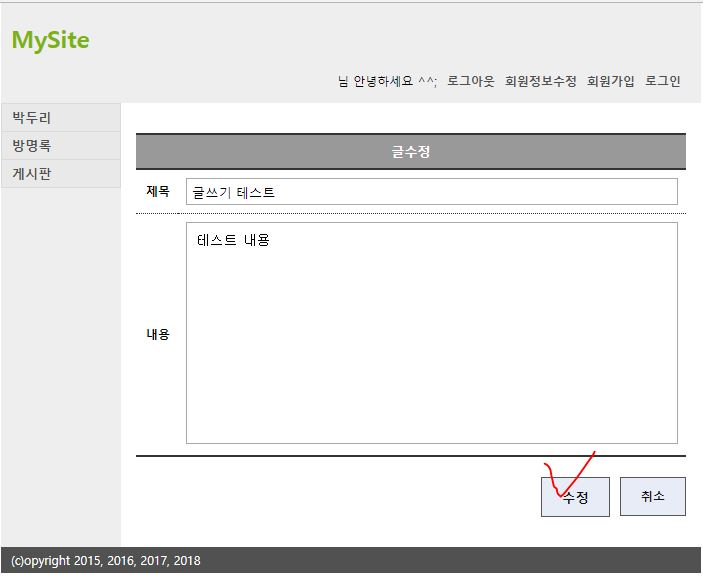
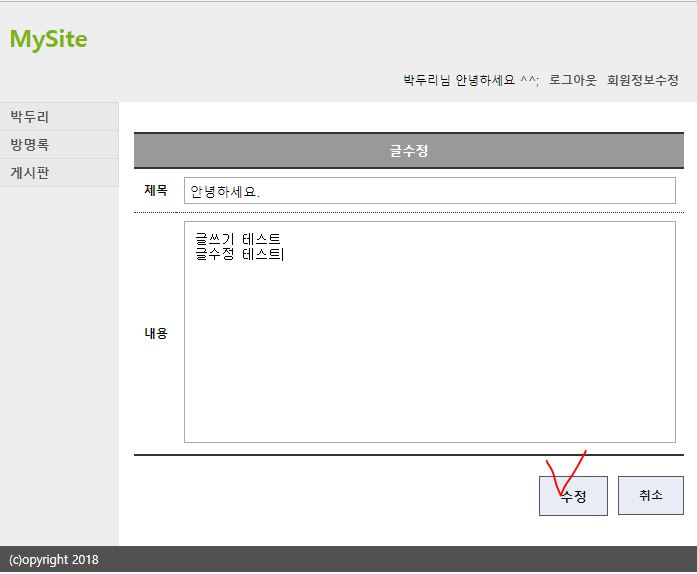
끝.

diff --git a/templates/main/index.html b/templates/main/index.html
@@ -7,11 +7,16 @@
 {% block content %}
 				<div id="site-introduction">
 					<img id="profile" src="https://avatars2.githubusercontent.com/u/31717542?s=460&v=4">
-					<h2>안녕하세요. 박두리의  mysite에 오신 것을 환영합니다.</h2>
+					<h2>박두리의 MySite 입니다.</h2>
 					<p>
-						이 사이트는  웹 프로그램밍 실습과제 예제 사이트입니다.<br>
-						메뉴는  사이트 소개, 방명록, 게시판이 있구요. Python 수업 + 데이터베이스 수업 + 웹프로그래밍 수업 배운 거 있는거 없는 거 다 합쳐서
-						만들어 놓은 사이트 입니다.<br><br>
+						Language : Python<br>
+						Library : Django v2.0.6, mysqlclient v1.3.12, django-mathfilters v0.4.0<br>
+						Database : mysql<br>
+						<br>
+						회원가입, 로그인, 로그아웃<br>
+						방명록 등록, 삭제<br>
+						게시판 등록, 수정, 삭제, 읽기, 찾기, 페이징, 조회수<br>
+						<br>
 						<a href="/guestbook">방명록</a>에 글 남기기<br>
 					</p>
 				</div>

diff --git a/templates/base.html b/templates/base.html
@@ -35,7 +35,7 @@
 			</ul>
 		</div>
 		<div id="footer">
-			<p>(c)opyright 2015, 2016, 2017, 2018</p>
+			<p>(c)opyright 2018</p>
 		</div>
 	</div>
 </body>

diff --git a/board/views.py b/board/views.py
@@ -8,6 +8,8 @@ from .models import Board
 # Create your views here.
 def index(request):
     kwd = request.GET.get('kwd')
+    if kwd == 'None':
+        kwd = None;
     if kwd is not None:
         board_list = Board.objects.filter(title__icontains=kwd).order_by('-id')
     else:
